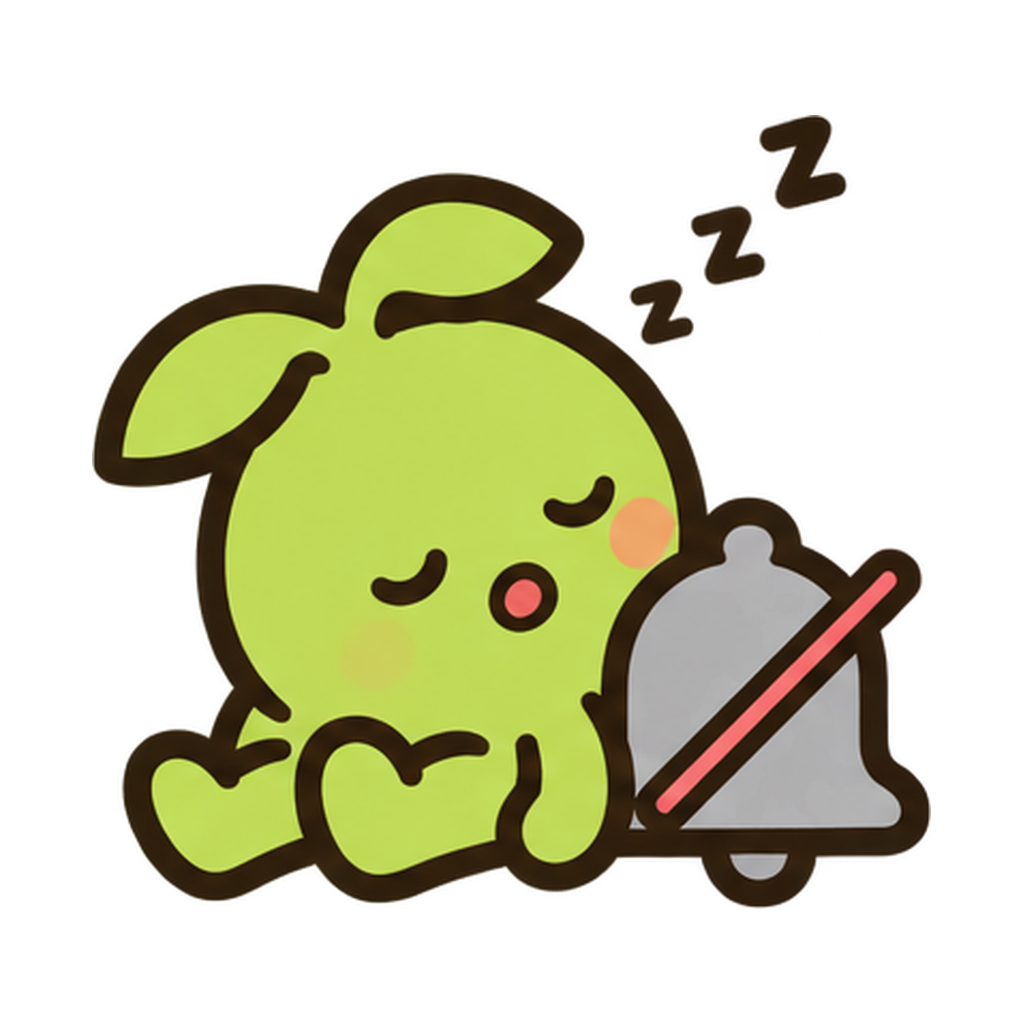
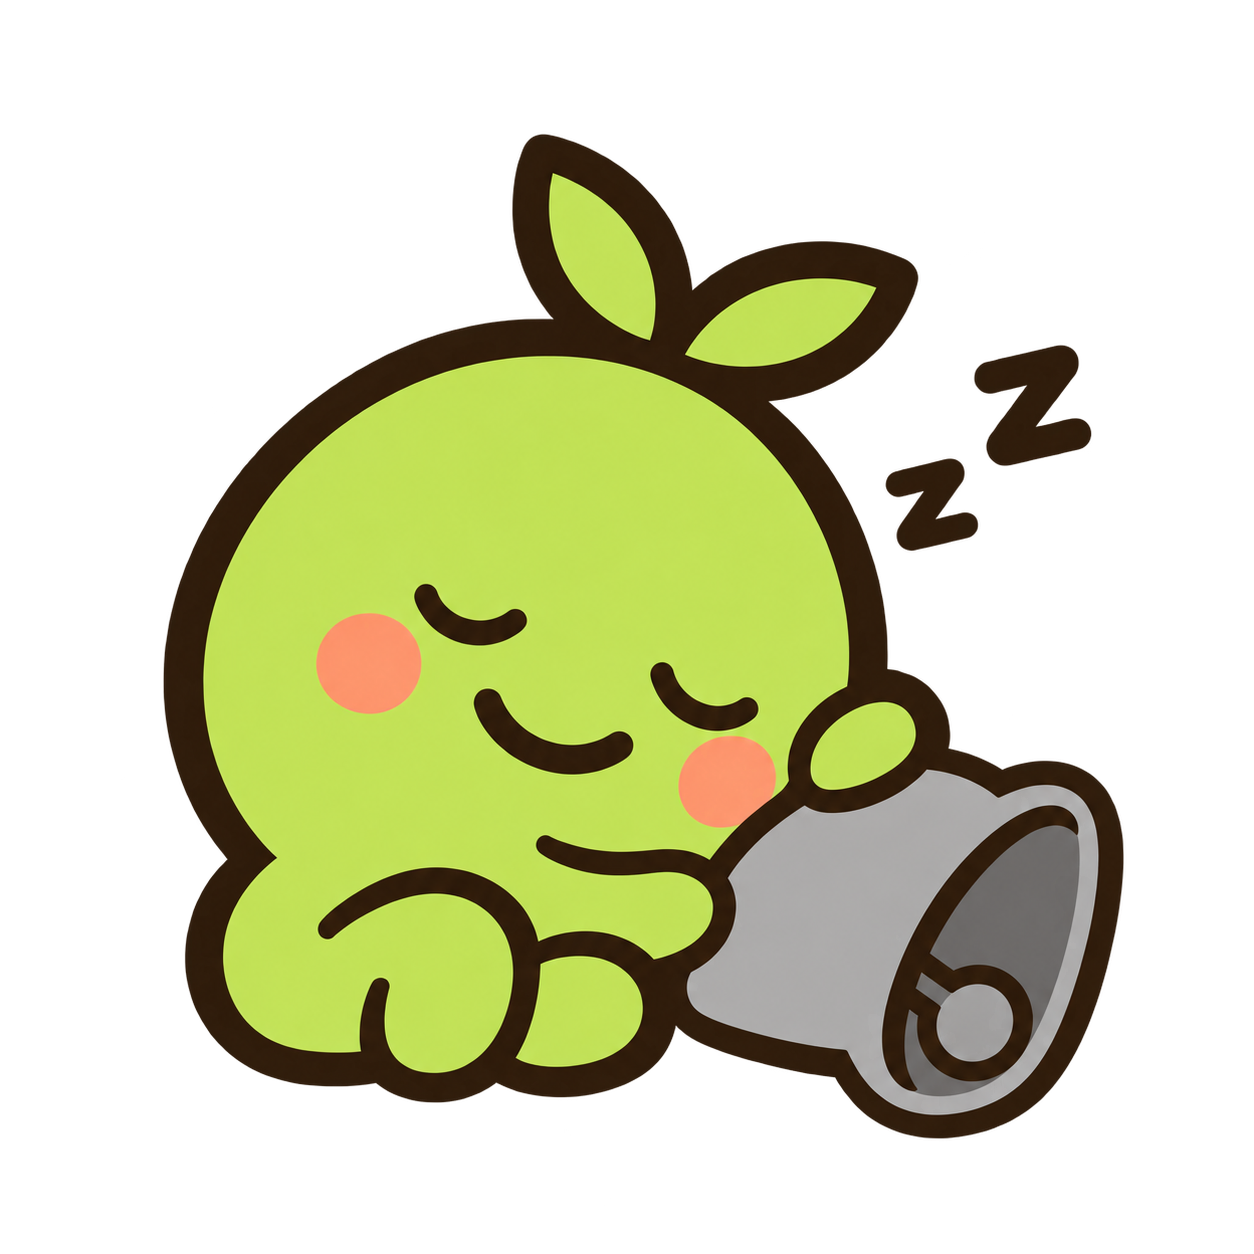
feat(design-system): 2단계 보통 · 알림 없음 그림을 리뷰 지적대로 재생성 — 땀방울 없는 표정, 사선 없는 종

Changed region(s): [[0.0938, 0.0938, 0.9062, 0.9062]]

diff --git a/docs/character-prompts.md b/docs/character-prompts.md
@@ -8,7 +8,7 @@ ChatGPT 이미지 생성에 **기존 `stage-2-normal.png`(옛 sprout.png)를 참
 ```
 Same character as the attached reference: a round lime-green sprout mascot with two leaves on top,
 thick dark-brown outline, simple dot eyes, pink-orange cheek blush, stubby arms and legs.
-Flat vector sticker style, no gradients, no background, transparent PNG, square 1024x1024 (2단계 원본만 1254px),
+Flat vector sticker style, no gradients, no background, transparent PNG, square 1024x1024 (2단계·알림 없음은 1254px),
 character centered and filling ~80% of the canvas. Keep exactly the same colors and line weight.
 ```
 
@@ -17,7 +17,7 @@ character centered and filling ~80% of the canvas. Keep exactly the same colors 
 | 파일 | 추가 문장 |
 |---|---|
 | `stage-1-droopy.png` | Pose: sad and droopy. Head tilted down, both leaves wilted and hanging sideways, arms hanging limp, small frown, half-closed eyes, one small sweat drop. |
-| `stage-2-normal.png` | Pose: calm and content. Standing straight, arms relaxed at the sides, small closed-mouth smile, eyes open and neutral, leaves upright. No sweat drop, no raised eyebrows. (지금 파일은 옛 sprout.png 라 땀방울이 있어 1단계와 겹친다 — 재생성 권장) |
+| `stage-2-normal.png` | Pose: calm and content. Standing straight, arms relaxed at the sides, small closed-mouth smile, eyes open and neutral, leaves upright. No sweat drop, no raised eyebrows. |
 | `stage-3-excited.png` | Pose: excited. Both arms raised straight up, big open smile, leaves perked up, one leg lifted as if hopping. |
 | `stage-4-sparkle.png` | Pose: proud and sparkling. Star-shaped highlights in both eyes, closed happy smile, hands on hips, three or four small yellow four-point sparkles floating around the head. |
 | `stage-5-party.png` | Pose: celebrating. Wearing a small striped party cone hat between the leaves, both arms up, mouth wide open in a cheer, a few pieces of colorful confetti falling around (keep confetti inside the canvas). |
@@ -28,7 +28,7 @@ character centered and filling ~80% of the canvas. Keep exactly the same colors 
 |---|---|
 | `empty-activity.png` | Pose: ready to go out. Holding a small white sneaker in one hand and a folded trash bag in the other, looking to the side with a curious expression, one eyebrow raised. |
 | `empty-post.png` | Pose: holding an empty picture frame (simple rectangle with dark outline, nothing inside) in front of the body with both hands, slightly puzzled smile. |
-| `empty-notification.png` | Pose: sleeping peacefully. Eyes closed as two curved lines, small "z z" above the head, curled up next to a small plain grey bell lying on its side. No slash or mute mark on the bell — this means "nothing arrived", not "notifications off". (지금 파일은 사선 종이라 알림 꺼짐으로 읽힐 수 있다 — 재생성 권장) |
+| `empty-notification.png` | Pose: sleeping peacefully. Eyes closed as two curved lines, small "z z" above the head, curled up next to a small plain grey bell lying on its side. No slash or mute mark on the bell — this means "nothing arrived", not "notifications off". |
 
 ## 확인
 
